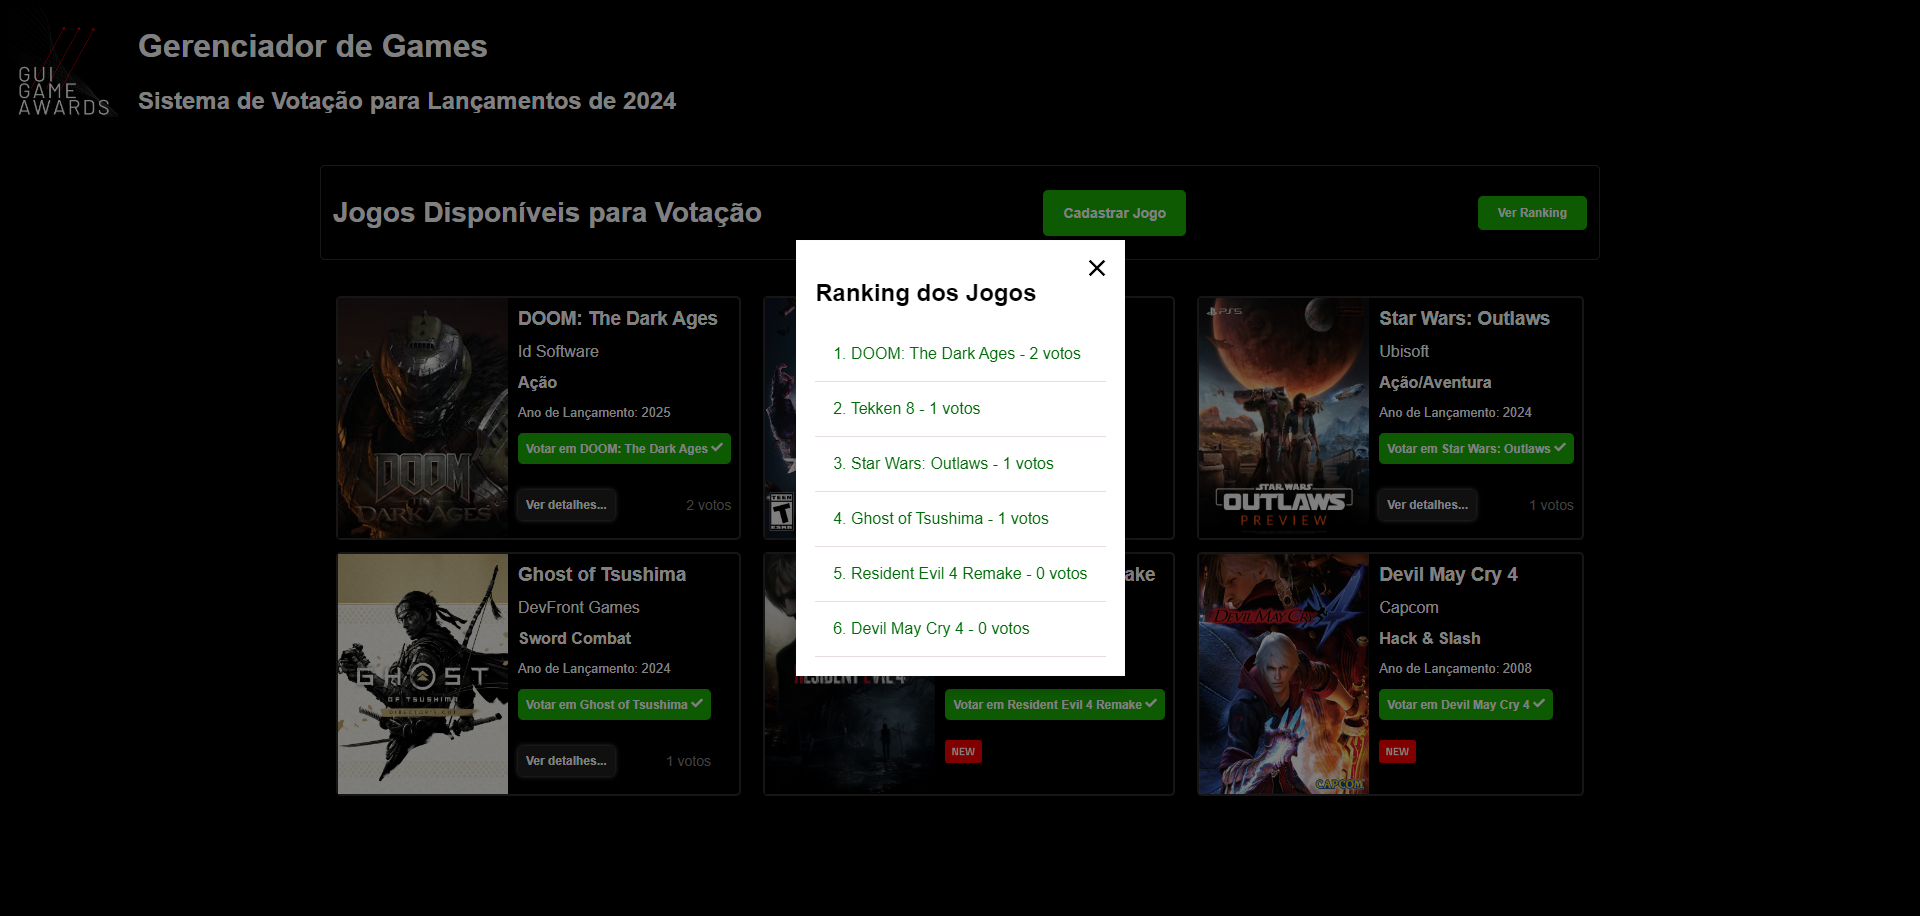
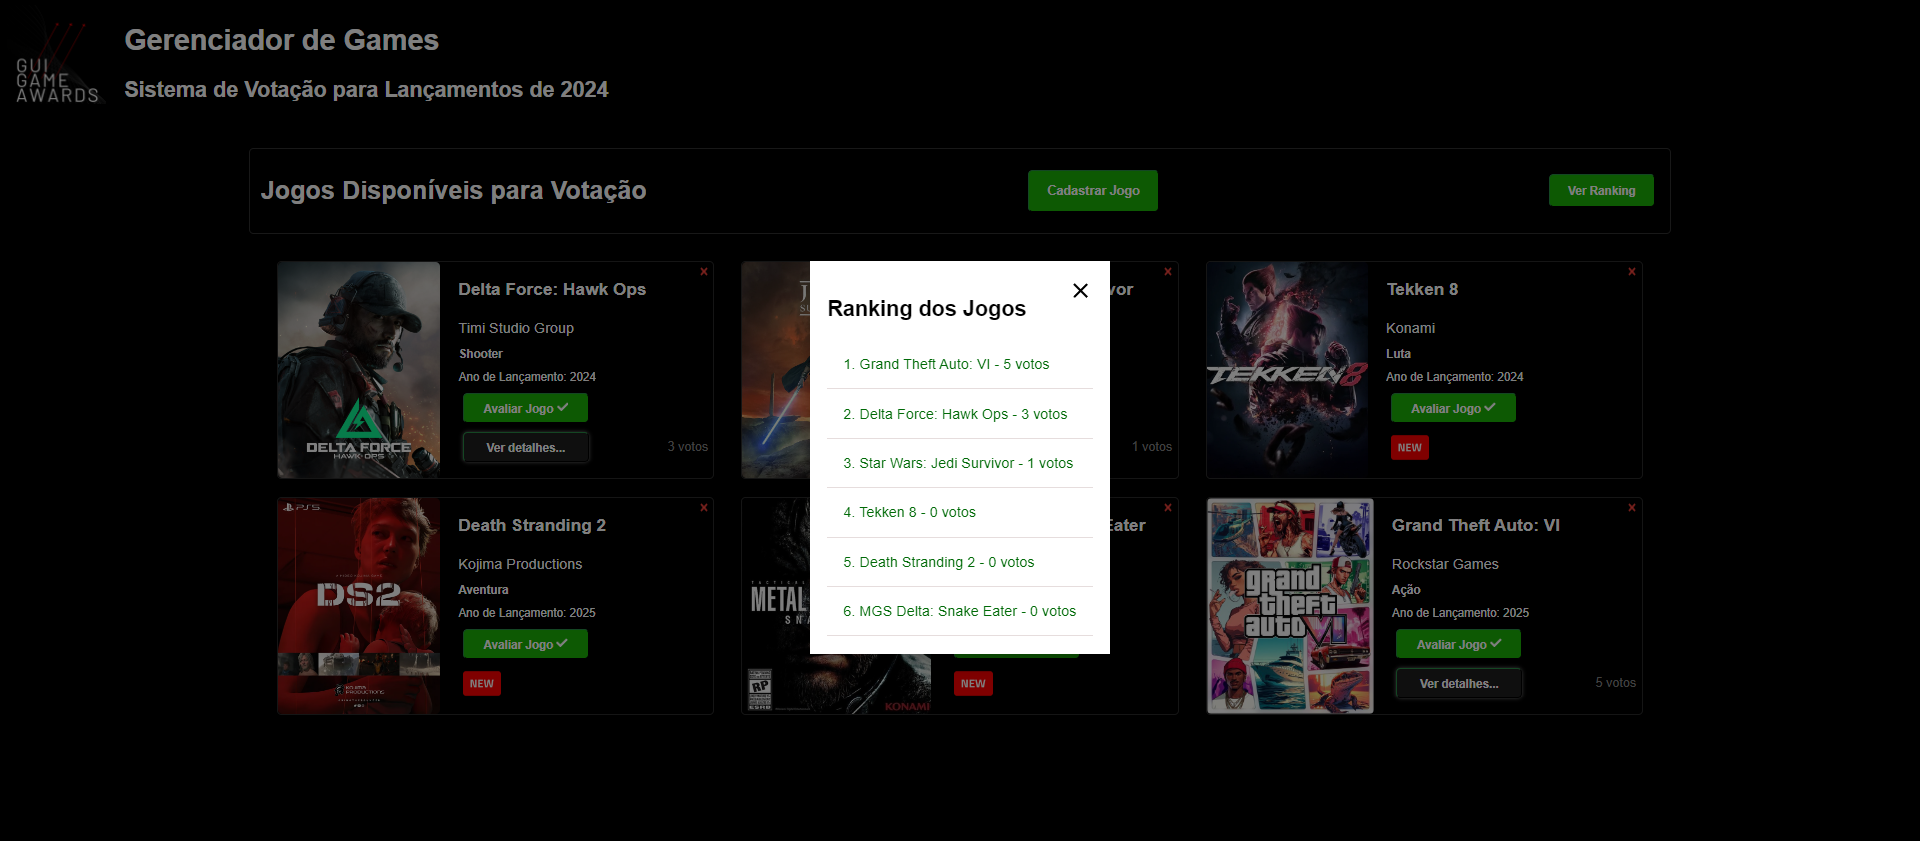
Atualiza Codigo Refatorado

diff --git a/appGamesVotacao/src/App.jsx b/appGamesVotacao/src/App.jsx
@@ -6,6 +6,9 @@ import './App.css';
 import 'react-responsive-modal/styles.css';
 import { Toaster } from "sonner";
 import { Modal } from 'react-responsive-modal';
+import axios from 'axios';
+
+const API_URL = 'http://localhost:3000/jogos';
 
 function App() {
   const [jogos, setJogos] = useState([]);
@@ -13,21 +16,24 @@ function App() {
   const [openRanking, setOpenRanking] = useState(false);
 
   useEffect(() => {
-    if (localStorage.getItem("jogos")) {
-      const jogos2 = JSON.parse(localStorage.getItem("jogos"));
-      setJogos(jogos2);
-    }
+    const fetchJogos = async () => {
+      try {
+        const response = await axios.get(API_URL);
+        setJogos(response.data);
+      } catch (error) {
+        console.error('Erro ao buscar jogos:', error);
+
+      }
+    };
+
+    fetchJogos();
   }, []);
 
   const ordenarJogosPorVotos = (jogos) => {
-    return jogos.sort((a, b) => b.voto - a.voto);
-  }
+    return jogos.sort((a, b) => b.votos - a.votos);
+  };
 
-  const listaJogos = ordenarJogosPorVotos(jogos).map(jogo => (
-    <ListaJogo key={jogo.nome} jogo={jogo} jogos={jogos} setJogos={setJogos} />
-  ));
-
-  const jogosOrdenados = [...jogos].sort((a, b) => b.voto - a.voto);
+  const jogosOrdenados = ordenarJogosPorVotos(jogos);
 
   return (
     <>
@@ -41,21 +47,18 @@ function App() {
         <Modal open={openNovoJogo} onClose={() => setOpenNovoJogo(false)} center>
           <NovoJogo jogos={jogos} setJogos={setJogos} />
         </Modal>
-        
     
         <Modal open={openRanking} onClose={() => setOpenRanking(false)} center>
-          <h2 className ="titulo-ranking">Ranking dos Jogos</h2>
+          <h2 className="titulo-ranking">Ranking dos Jogos</h2>
           <div className="ranking-container">
             {jogosOrdenados.map((jogo, index) => (
-              <div key={jogo.nome} className="ranking-item">
-                <span>{index + 1}. {jogo.nome} - {jogo.voto} votos</span>
+              <div key={jogo.id} className="ranking-item">
+                <span>{index + 1}. {jogo.nome} - {jogo.votos} votos</span> {}
               </div>
             ))}
           </div>
         </Modal>
-        <div className="grid-container">
-          {listaJogos}
-        </div>
+          <ListaJogo jogos={jogosOrdenados} setJogos={setJogos} />
       </div>
       <Toaster richColors position="top-right" />
     </>
@@ -63,3 +66,5 @@ function App() {
 }
 
 export default App;
+
+

diff --git a/appGamesVotacao/src/components/ListaJogo.jsx b/appGamesVotacao/src/components/ListaJogo.jsx
@@ -1,10 +1,10 @@
 import React, { useEffect, useState } from 'react';
 import { FaCheck } from "react-icons/fa";
-import { toast } from 'sonner'; // Supondo que 'sonner' seja sua biblioteca de toast, ajuste conforme necessário
+import { toast } from 'sonner';
 import axios from 'axios';
-import './ListaJogo.css'; // Importe o CSS aqui se necessário
+import './ListaJogo.css'; 
 
-const API_URL = 'http://localhost:3000/jogos'; // Substitua pela sua URL correta
+const API_URL = 'http://localhost:3000/jogos';
 
 const ListaJogo = () => {
   const [jogos, setJogos] = useState([]);
@@ -74,12 +74,14 @@ const ListaJogo = () => {
         <div key={jogo.id} className="card-jogo">
           <img className='urlImagem' src={jogo.urlImagem} alt="Imagem do Jogo" />
           <div className='lista_descricao'>
-            <h2>{jogo.nome}</h2>
-            <p>Desenvolvedora: {jogo.desenvolvedora}</p>
-            <p>Gênero: {jogo.genero}</p>
-            <p>Lançamento: {jogo.dataLancamento}</p>
+          <img className='excluirJogo' src="./excluir.png" alt="Botão para excluir um jogo" onClick={() => apagaJogo(jogo.id)} />
+
+            <h2 className='jogo_nome'>{jogo.nome}</h2>
+            <p>{jogo.desenvolvedora}</p>
+            <p className='jogo_genero'>{jogo.genero}</p>
+            <p className='jogo_ano'>Ano de Lançamento: {jogo.dataLancamento}</p>
             <button onClick={() => avaliaJogo(jogo.id)}>Avaliar Jogo <FaCheck /></button>
-            {jogo.votoConfirmacao === 0 ?
+            {jogo.votos === 0 ?
               <img src="./novo.png" alt="Novidade" className='novidade'/>
               :
               <div className='votacao_detalhes'>

diff --git a/appGamesVotacao/src/components/ListaJogo.css b/appGamesVotacao/src/components/ListaJogo.css
@@ -1,14 +1,7 @@
 @import '.././variaveis.css';
 
-.grid-item {
-  display: flex;
-  border: 2px solid var(--cor-cinza-escuro);
-  border-radius: var(--border-radius-padrao);
-  margin: 2px;
-}
-
 .card-jogo {
-  display: flex; /* Change to flex */
+  display: flex;
   border: 2px solid var(--cor-cinza-escuro);
   border-radius: var(--border-radius-padrao);
   margin: 10px;
@@ -16,9 +9,9 @@
 }
 
 .urlImagem {
-  width: 190px;
+  width: 210px;
   height: 240px;
-  margin-right: 20px;
+  margin-right: 14px;
   border-radius: var(--border-radius-padrao);
 }
 
@@ -26,16 +19,24 @@ h3 {
   margin: 0;
 }
 
-.genero {
+.jogo_nome {
+  font-size: var(--font-size-medium);
   font-weight: var(--font-weight-bold);
+  margin-top: 4px;
 }
 
-.anoLancamento {
+.jogo_genero {
+  font-weight: var(--font-weight-bold);
+  font-size: var(--font-size-small);
+}
+
+.jogo_ano {
   font-size: var(--font-size-small);
 }
 
 .novidade {
-  width: 37px;
+  width: 43px;
+  margin-left: var(--margin-botao);
 }
 
 button {
@@ -73,12 +74,13 @@ button {
 
 .lista_descricao {
   display: flex;
-  flex-direction: column; /* Add this line */
-  padding: 4px;
+  flex-direction: column;
+  width: 100%;
+  padding: 6px;
 }
 
 .lista_descricao p {
-  margin: 4px 0;
+  margin: 6px 0;
 }
 
 .lista_descricao h2 {
@@ -96,7 +98,7 @@ button {
 }
 
 .excluirJogo {
-  width: 14px;
+  width: 9px;
   cursor: pointer;
-  margin-right: 40px;
+  align-self: flex-end;
 }

diff --git a/appGamesVotacao/src/App.css b/appGamesVotacao/src/App.css
@@ -6,20 +6,20 @@
   color: var(--cor-branca);
 }
 
-.container {
-  max-width: 1480px;
-  display: grid;
-  grid-template-columns: 1fr;
-  margin: 0 auto;
-  padding: 10px;
-}
+  .container {
+    max-width: 1580px;
+    display: grid;
+    grid-template-columns: 1fr;
+    margin: 0 auto;
+    padding: 10px;
+  }
 
 .grid-container {
   display: grid;
   column-gap: 10px;
-  grid-template-columns: auto auto auto;
-  padding: 10px;
+  grid-template-columns: 32% 32% 32%;
   margin-top: 20px;
+  justify-content: center;
 }
 
 .lista-novo {

diff --git a/appGamesVotacao/backend/routes/jogos.ts b/appGamesVotacao/backend/routes/jogos.ts
@@ -86,4 +86,15 @@ router.put('/:id/vote', async (req, res) => {
   }
 });
 
+// Rota para ordenar jogos por votos
+router.get('/ordenar/votos', async (req, res) => {
+  try {
+    const jogos = await prisma.jogo.findMany({ orderBy: { votos: 'desc' } });
+    res.json(jogos);
+  } catch (error) {
+    console.error('Erro ao listar jogos:', error);
+    res.status(500).json({ error: 'Erro ao listar jogos' });
+  }
+});
+
 export default router;

diff --git a/appGamesVotacao/src/variaveis.css b/appGamesVotacao/src/variaveis.css
@@ -13,7 +13,7 @@
     --cor-rotulo: black;
     --border-radius-padrao: 5px;
     --padding-botao: 8px;
-    --margin-botao: 4px;
+    --margin-botao: 5px;
     --font-size-botao: 13px;
     --font-weight-bold: bold;
     --font-size-small: small;

diff --git a/appGamesVotacao/.github/PULL_REQUEST_TEMPLATE.md b/appGamesVotacao/.github/PULL_REQUEST_TEMPLATE.md
@@ -27,7 +27,7 @@ A aplicação está agora mais estável e eficaz, proporcionando uma experiênci
 ## Como foi testado?
 
 #### Foi testado a partir de uma aplicação React.js. Pré-visualização do projeto rodando localmente com a nova funcionalidade implementada:
-<img width="600" alt="image" src="/public/preview.png">
+<img width="600" alt="image" src="/appGamesVotacao/public/preview.png">
 
 
 Checklist:

diff --git a/appGamesVotacao/README.md b/appGamesVotacao/README.md
@@ -20,7 +20,7 @@ $ o + enter
 
 ## Pré-visualização do projeto
 
-<img width="600" alt="image" src="/public/preview2.png">
+<img width="600" alt="image" src="/appGamesVotacao/public/preview2.png">
 
 ## 🤝 Contribuídores
 
